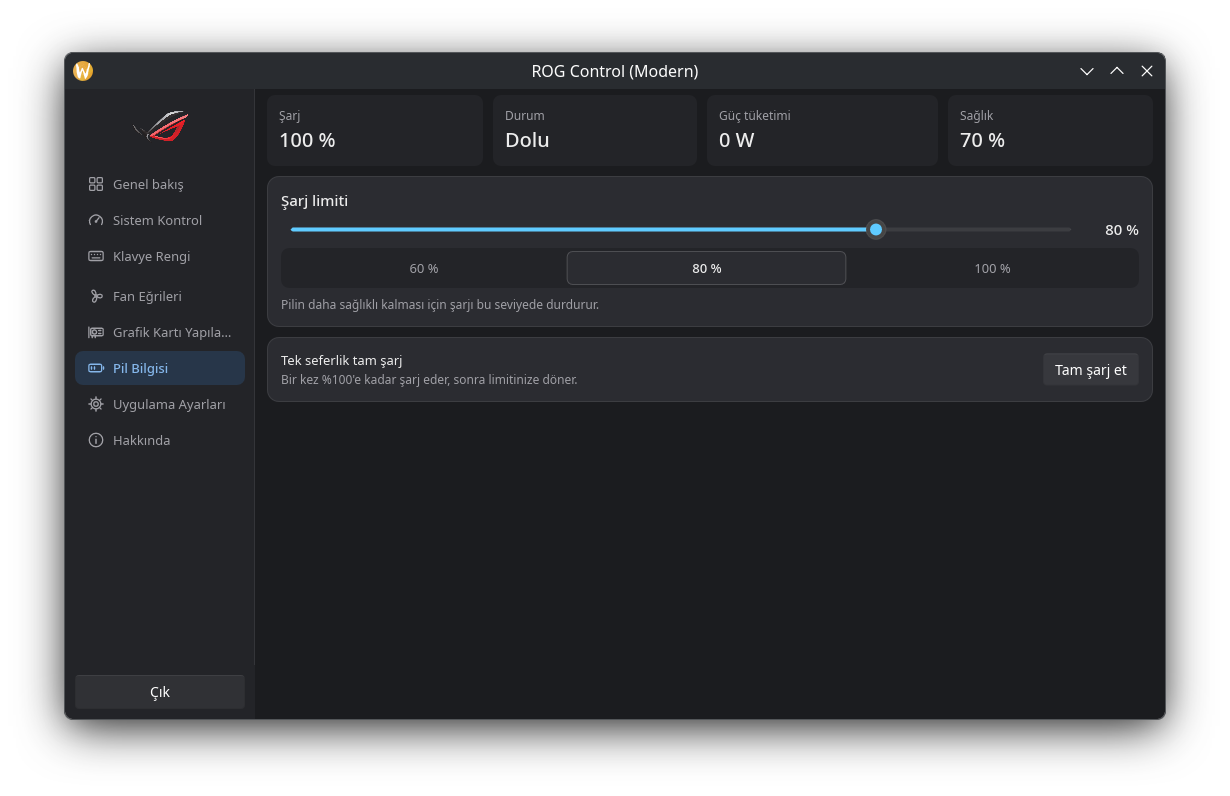
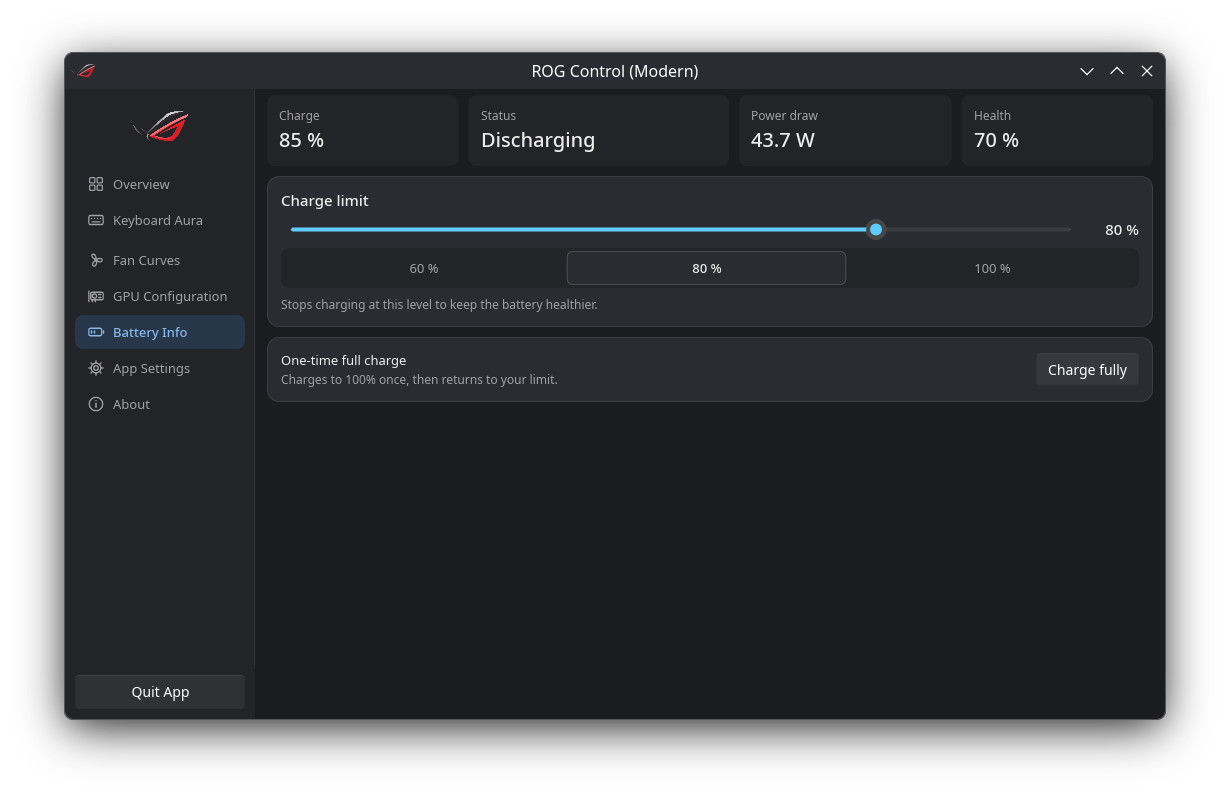
feat(rcc): add --page to open on a given sidebar page
Also replace the README screenshots with English ones.

diff --git a/rog-control-center/src/cli_options.rs b/rog-control-center/src/cli_options.rs
@@ -30,4 +30,42 @@ pub struct CliStart {
     /// put ROGCC in layout viewing mode - this is helpful for finding existing layouts that might match your laptop
     #[argh(switch)]
     pub layout_viewing: bool,
+    /// open on this page: overview, keyboard, anime, slash, fans, gpu, battery, settings, about
+    #[argh(option)]
+    pub page: Option<String>,
+}
+
+/// Sidebar order of the pages; must match the model in ui/main_window.slint
+const PAGES: [&str; 9] = [
+    "overview", "keyboard", "anime", "slash", "fans", "gpu", "battery", "settings", "about",
+];
+
+/// Sidebar index of a page name given to `--page`
+pub fn page_index(name: &str) -> Option<i32> {
+    PAGES
+        .iter()
+        .position(|p| p.eq_ignore_ascii_case(name))
+        .map(|i| i as i32)
+}
+
+#[cfg(test)]
+mod tests {
+    use super::*;
+
+    #[test]
+    fn page_names_map_to_sidebar_indexes() {
+        assert_eq!(page_index("overview"), Some(0));
+        assert_eq!(page_index("keyboard"), Some(1));
+        assert_eq!(page_index("fans"), Some(4));
+        assert_eq!(page_index("gpu"), Some(5));
+        assert_eq!(page_index("battery"), Some(6));
+        assert_eq!(page_index("about"), Some(8));
+    }
+
+    #[test]
+    fn page_names_ignore_case_and_unknown_is_none() {
+        assert_eq!(page_index("GPU"), Some(5));
+        assert_eq!(page_index("system"), None);
+        assert_eq!(page_index(""), None);
+    }
 }

diff --git a/rog-control-center/src/ui/mod.rs b/rog-control-center/src/ui/mod.rs
@@ -15,6 +15,9 @@ use std::sync::{Arc, Mutex};
 
 static TOAST_SEQ: AtomicU64 = AtomicU64::new(0);
 
+/// Sidebar page to open first, set once from `--page`
+pub static START_PAGE: std::sync::OnceLock<i32> = std::sync::OnceLock::new();
+
 use config_traits::StdConfig;
 use log::{error, warn};
 use rog_dbus::list_iface_blocking;
@@ -126,6 +129,9 @@ pub fn setup_window(
     let ui = MainWindow::new().expect("Couldn't create main window");
     // propagate TUF flag to the UI so the sidebar can swap logo branding
     ui.set_is_tuf(is_tuf);
+    if let Some(page) = START_PAGE.get() {
+        ui.set_current_page(*page);
+    }
     if let Err(e) = ui.window().show() {
         warn!("Couldn't show main window: {e:?}");
     }

diff --git a/rog-control-center/src/main.rs b/rog-control-center/src/main.rs
@@ -33,6 +33,15 @@ fn main() -> Result<()> {
 
     let cli_parsed: CliStart = argh::from_env();
 
+    if let Some(name) = &cli_parsed.page {
+        match rog_control_center::cli_options::page_index(name) {
+            Some(i) => {
+                rog_control_center::ui::START_PAGE.set(i).ok();
+            }
+            None => eprintln!("Unknown page '{name}', opening the overview"),
+        }
+    }
+
     if cli_parsed.version {
         print_versions();
         return Ok(());

diff --git a/README.md b/README.md
@@ -14,7 +14,7 @@ A cleaner, simpler control panel for ASUS ROG / TUF laptops on Linux. It is a dr
 | **Battery** | **Keyboard lighting** |
 | ![Battery](docs/screenshots/battery.png) | ![Keyboard lighting](docs/screenshots/keyboard.png) |
 
-Screenshots: ASUS TUF Gaming A15 FA507RM, Turkish locale.
+Screenshots: ASUS TUF Gaming A15 FA507RM (on battery, so some power limits are lower or hidden).
 
 ## English
 
@@ -30,6 +30,7 @@ A modern Slint-based GUI for [asusd](https://github.com/OpenGamingCollective/asu
 - One flat light / dark theme, sidebar icons, success / error toasts that show the reason
 - Only the features your laptop supports are shown
 - Installs per user without sudo and runs side by side with upstream `rog-control-center`
+- `--page fans` (or overview, keyboard, gpu, battery, …) opens straight on a page
 
 ### Install from release
 
